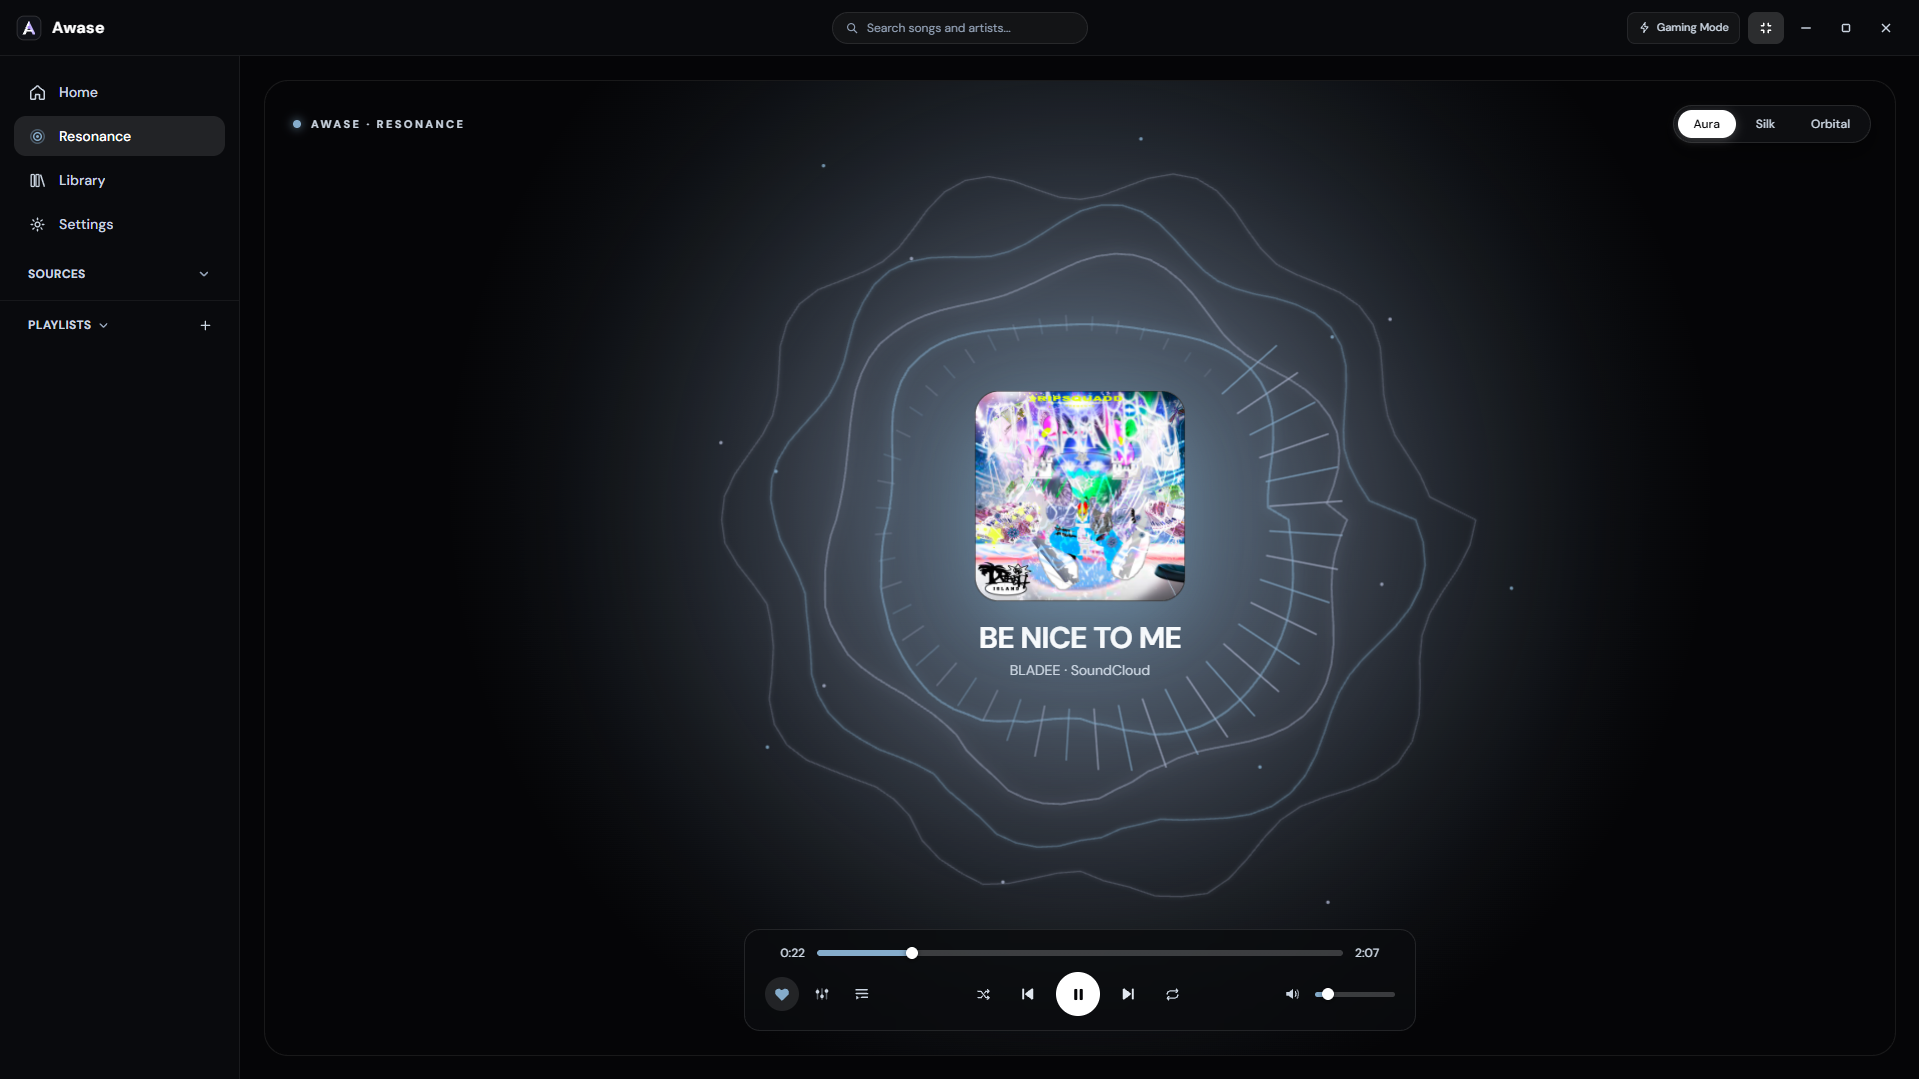
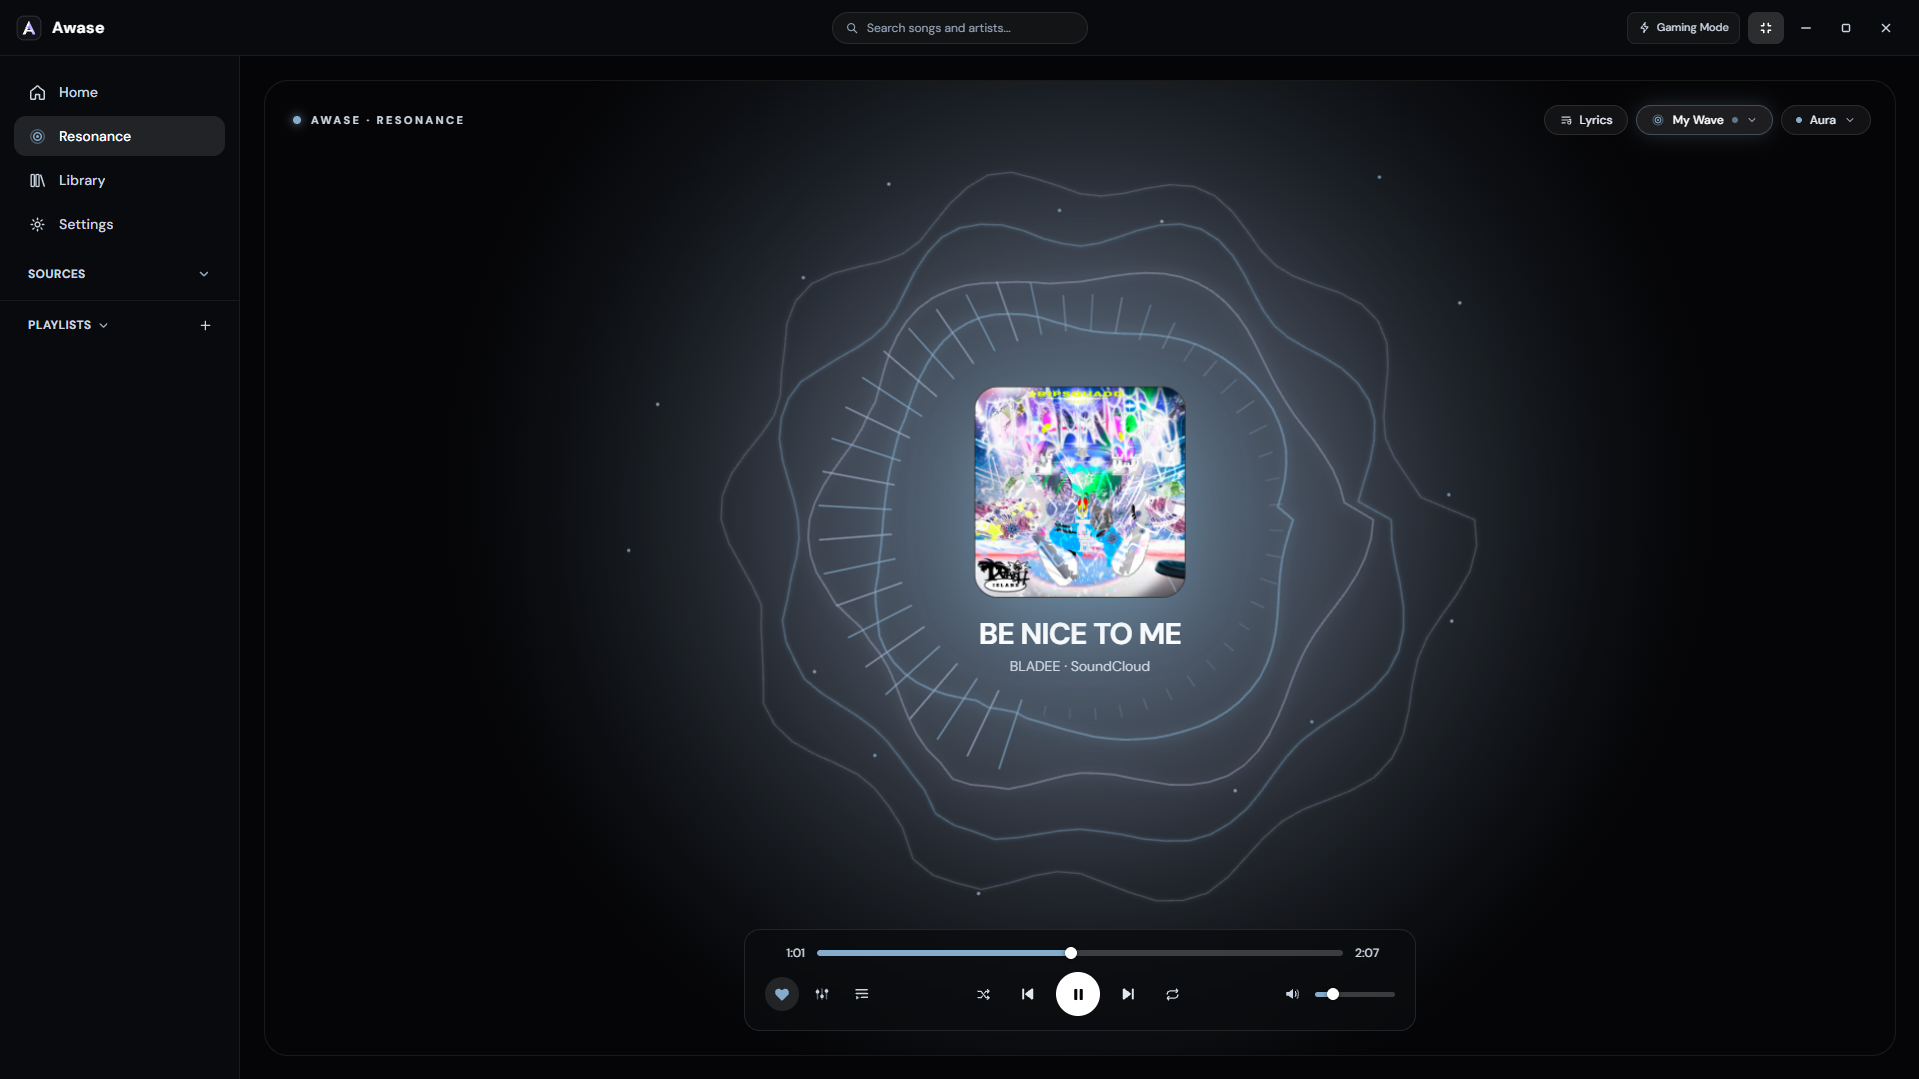
preview update

diff --git a/README.ru.md b/README.ru.md
@@ -20,9 +20,9 @@
 
 ## Превью
 
-| Резонанс — Аура | Резонанс — Шёлк |
+| Резонанс — Аура | Полноэкранный Lyrics |
 | :---: | :---: |
-| ![Awase Резонанс — Аура](assets/resonance-aura-v2.png) | ![Awase Резонанс — Шёлк](assets/resonance-silk-v2.png) |
+| ![Awase Резонанс — Аура](assets/resonance-aura-v2.png) | ![Awase Полноэкранный Lyrics](assets/lyrics-v2.png) |
 | **Коллекция** | **Настройки и Эквалайзер** |
 | ![Awase Коллекция](assets/library-v2.png) | ![Awase Настройки и Эквалайзер](assets/settings-v2.png) |
 

diff --git a/README.md b/README.md
@@ -20,9 +20,9 @@
 
 ## Preview
 
-| Resonance — Aura | Resonance — Silk |
+| Resonance — Aura | Fullscreen Lyrics |
 | :---: | :---: |
-| ![Awase Resonance — Aura](assets/resonance-aura-v2.png) | ![Awase Resonance — Silk](assets/resonance-silk-v2.png) |
+| ![Awase Resonance — Aura](assets/resonance-aura-v2.png) | ![Awase Fullscreen Lyrics](assets/lyrics-v2.png) |
 | **Library** | **Settings & Equalizer** |
 | ![Awase Library](assets/library-v2.png) | ![Awase Settings & Equalizer](assets/settings-v2.png) |
 
